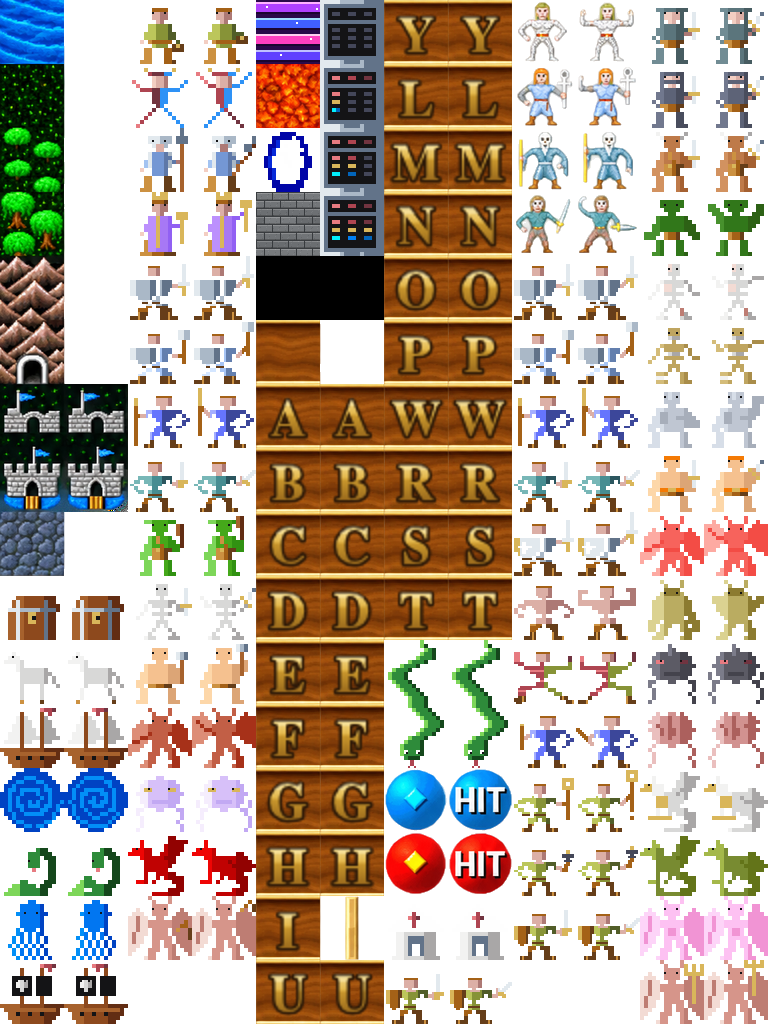
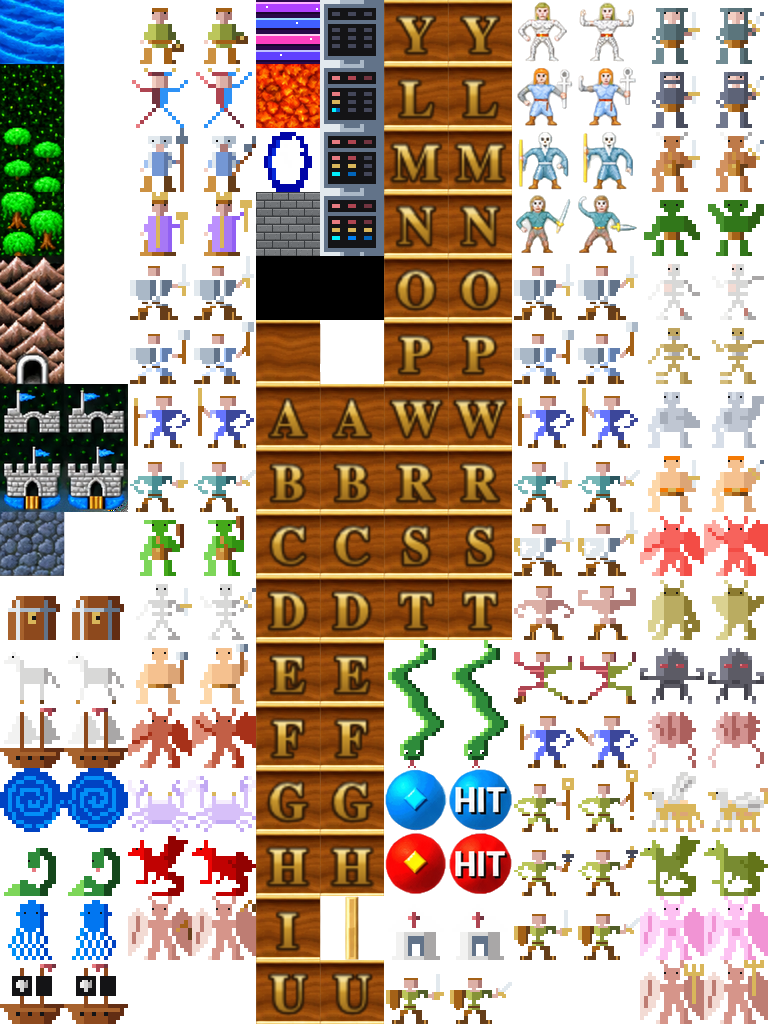
Second-pass Pincher, Snatch and Griffon in the Standard sheet
Take the updated atlas (only those six cells differ from the accepted
one) and recompose the sheet. Status notes in the briefs.

Claude-Session: https://claude.ai/code/session_013fzjLXvyH1ATjhYrYXYjzx

Changed region(s): [[0.1562, 0.75, 0.3438, 0.8125], [0.8438, 0.75, 1.0, 0.8125], [0.8438, 0.625, 1.0, 0.6875]]

diff --git a/web/docs/figure-art-spec.md b/web/docs/figure-art-spec.md
@@ -9,9 +9,9 @@ and must be redrawn the same way, with the rules the game engine imposes.
 Delivered and integrated (`art/figures/`, `npm run figures`). One correction
 to this brief came out of the first delivery: tiles 58 and 59 are the north
 and south halves of one tall snake drawn on the map, not two animation
-frames. The redraw was briefed in `snake-brief.md` and is in the sheet. Three figures
-are out for a second pass, briefed in `second-pass-brief.md`: Pincher, Snatch
-and Griffon.
+frames. The redraw was briefed in `snake-brief.md` and is in the sheet. Pincher, Snatch
+and Griffon were redrawn in a second pass (`second-pass-brief.md`) and are in
+the sheet.
 
 ## 1. Why
 

diff --git a/web/docs/second-pass-brief.md b/web/docs/second-pass-brief.md
@@ -1,5 +1,7 @@
 # Second pass: Pincher, Snatch, Griffon
 
+Status: delivered and integrated; kept as the record of the notes.
+
 Three figures from the first delivery to redraw. Everything else in the pack
 is accepted and in the game. Rules, palette and delivery format are as in
 `figure-art-spec.md`; only the drawing changes. `second-pass-reference.png`
